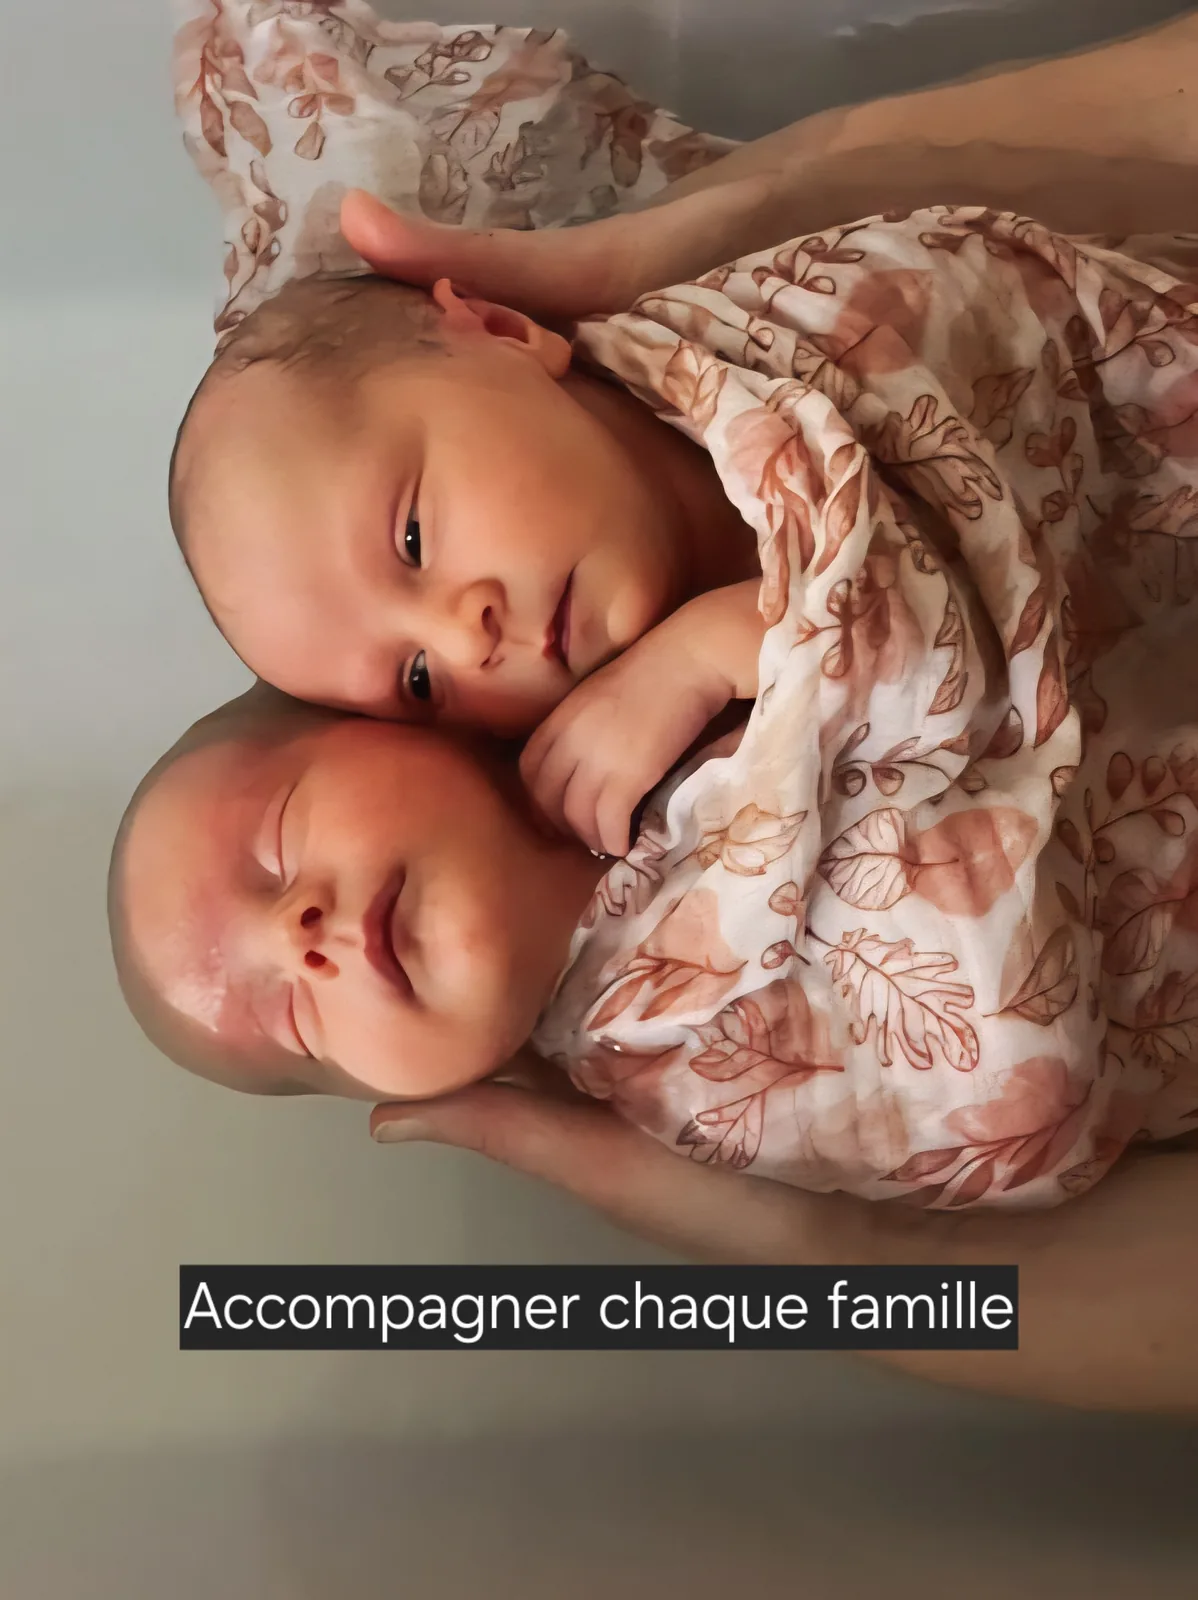
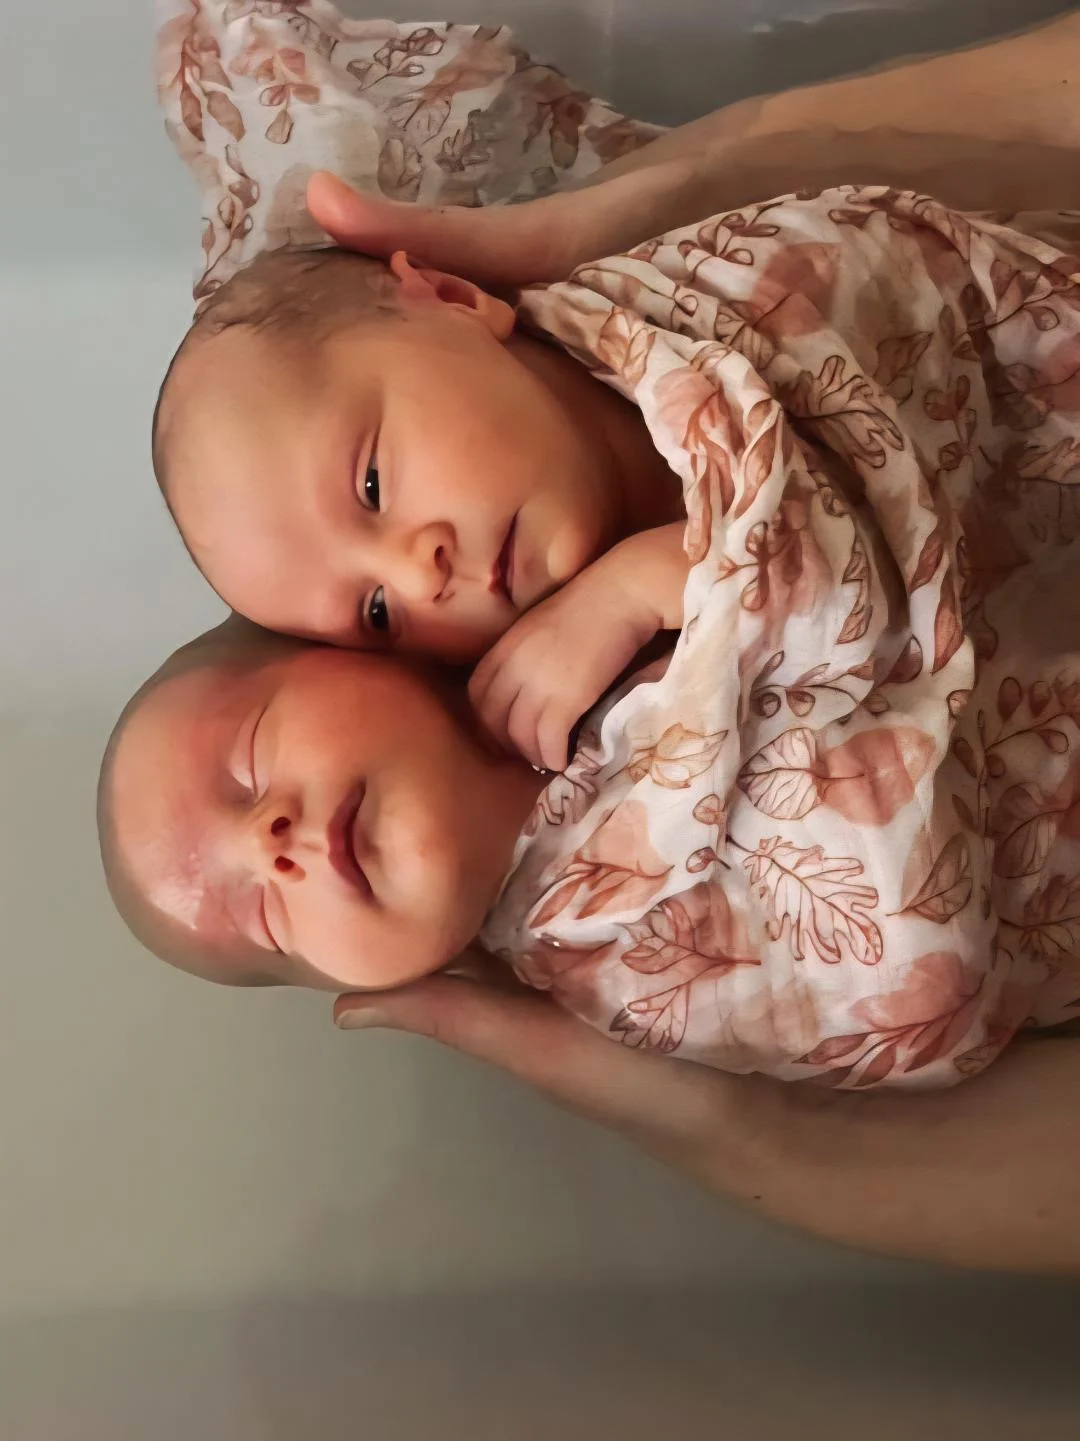
feat: update gallery images, content, and homepage visuals

Changed region(s): [[0.1528, 0.7807, 0.8556, 0.8432]]

diff --git a/shared/content.js b/shared/content.js
@@ -53,14 +53,29 @@ export const subjects = [
   "Autre demande",
 ];
 export const gallery = [
-  ["rencontres", "Rencontres", "Rencontres", true],
-  ["accompagner", "Accompagner chaque famille", "Accompagner chaque famille", true],
-  ["lacher-prise", "Lâcher-prise", "Lâcher-prise", true],
-  ["apres-bain", "Sérénité", "Après le bain, un nouveau-né repose dans une serviette grise.", false],
-  ["apaisement", "Apaisement", "Apaisement", true],
-  ["soutien", "Soutien", "Soutien", true],
-  ["confiance", "Confiance", "Confiance", true],
-  ["bain-noir-blanc", "Douceur", "Une adulte soutient la tête du nouveau-né dans le bain, en noir et blanc.", false],
+  ["rencontres", "Rencontres", "Deux bébés sur un tapis d’éveil.", false],
+  [
+    "accompagner",
+    "Accompagner chaque famille",
+    "Deux nouveau-nés emmaillotés côte à côte.",
+    false,
+  ],
+  ["lacher-prise", "Lâcher-prise", "Un nouveau-né repose dans les mains d’une adulte pendant le bain.", false],
+  [
+    "apres-bain",
+    "Respecter chaque rythme",
+    "Après le bain, un nouveau-né repose dans une serviette grise.",
+    false,
+  ],
+  ["apaisement", "Apaisement", "Les pieds d’un bébé dépassent d’un lange vert dans l’eau.", false],
+  ["soutien", "Soutien", "Des mains soutiennent les pieds d’un bébé.", false],
+  ["confiance", "Confiance", "La main d’un bébé agrippe un doigt adulte, en noir et blanc.", false],
+  [
+    "douceur",
+    "Douceur",
+    "Une adulte se penche au-dessus d’un nouveau-né dans le bain.",
+    false,
+  ],
 ];
 
 export const minimumMessageLength = 10;

diff --git a/app/pages/galerie.vue b/app/pages/galerie.vue
@@ -12,13 +12,13 @@ function move(n) { index.value = (index.value + n + gallery.length) % gallery.le
    photos d’une même rangée ont la même hauteur, sans rognage. */
 const ratios = {
     rencontres: 1600 / 1200,
-    accompagner: 1198 / 1600,
-    'lacher-prise': 1080 / 1102,
+    accompagner: 1080 / 1441,
+    'lacher-prise': 1600 / 1598,
     'apres-bain': 1096 / 1434,
-    apaisement: 675 / 1200,
-    soutien: 932 / 1400,
-    confiance: 932 / 1400,
-    'bain-noir-blanc': 1074 / 1436
+    apaisement: 775 / 1377,
+    soutien: 1067 / 1600,
+    confiance: 1067 / 1600,
+    douceur: 1067 / 1600
 }
 
 const photos = gallery.map(([file, label, description, embedded]) => ({
@@ -63,6 +63,7 @@ useSchemaOrg([defineWebPage({
                         class="caption">{{ photos[i].label }}</span></button>
             </div>
         </div>
+        <p class="text-sm">Crédit photo · <a class="underline" href="https://lesphotosdececile.fr">@lesphotosdececile</a></p>
         <dialog ref="dialog" aria-label="Photographie agrandie" @keydown.left="move(-1)" @keydown.right="move(1)"
             @click.self="dialog.close()"><button class="close" autofocus @click="dialog.close()">Fermer ×</button>
             <figure class="dialog-photo"><img :src="'/images/' + gallery[index][0] + '.webp'"

diff --git a/app/pages/index.vue b/app/pages/index.vue
@@ -27,10 +27,10 @@ const googleProfile = 'https://share.google/BpcWvy3vg8UkgJUzW'
           </div>
         </div>
         <figure class="album">
-          <div class="arch"><img src="/images/premier-bain.webp" fetchpriority="high" width="1078" height="1424"
-              alt="Un nouveau-né tient la main qui le soutient dans le bain"></div>
-          <div class="snapshot"><img src="/images/bain-noir-blanc.webp" alt="" width="165" height="185"><span>Le premier
-              bain</span></div>
+          <div class="arch"><img src="/images/douceur.webp" fetchpriority="high" width="1067" height="1600"
+              alt="Une adulte se penche au-dessus d’un nouveau-né dans le bain"></div>
+          <div class="snapshot"><img src="/images/accueil-allaitement.webp" width="560" height="559"
+              alt="Un bébé tète au sein"><span>Accompagner en confiance</span></div>
           <figcaption>Rivery <b>✧</b> Somme</figcaption>
         </figure>
       </div>
